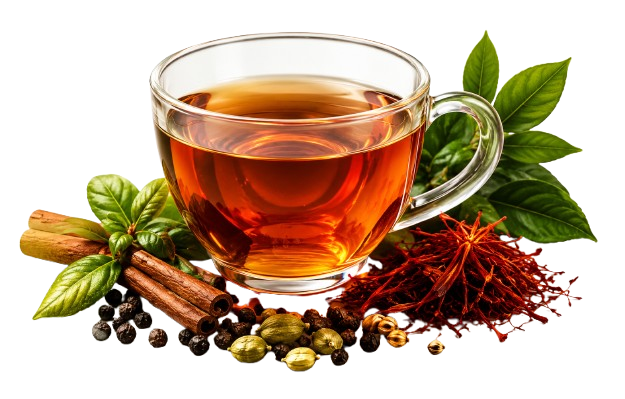
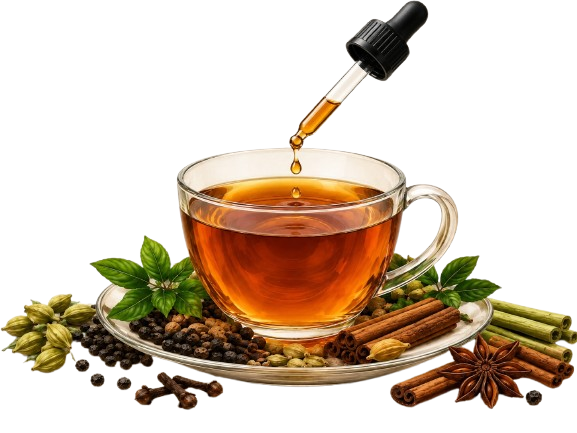
final changes02

diff --git a/components/home/HomeHero.tsx b/components/home/HomeHero.tsx
@@ -1,70 +1,92 @@
-import Link from 'next/link'
-import { Leaf, MessageCircle } from 'lucide-react'
-import Image from 'next/image'
+"use client";
+
+import Link from "next/link";
+import { Leaf } from "lucide-react";
+import Image from "next/image";
+import { useState, useEffect } from "react";
+
+const images = [
+  "/images/contact.jpeg",
+  "/images/contact2.jpeg",
+];
 
 export default function HomeHero() {
+  const [currentImage, setCurrentImage] = useState(0);
+
+  useEffect(() => {
+    const interval = setInterval(() => {
+      setCurrentImage((prev) => (prev + 1) % images.length);
+    }, 4000);
+
+    return () => clearInterval(interval);
+  }, []);
+
   return (
-   <section className="relative min-h-[600px] md:min-h-[700px] lg:min-h-[800px] overflow-hidden">
-  {/* Background Image */}
-  <Image
-    src="/images/contact.png"
-    alt="Wellness Extracts"
-    fill
-    priority
-    className="object-cover opacity-75"
-  />
+    <section className="relative min-h-[600px] md:min-h-[700px] lg:min-h-[800px] overflow-hidden">
 
-  {/* Overlay */}
-  <div className="absolute inset-0" />
+      {/* Background Images */}
+      {images.map((img, index) => (
+        <Image
+          key={index}
+          src={img}
+          alt={`Background ${index + 1}`}
+          fill
+          priority={index === 0}
+          className={`absolute inset-0 object-cover transition-opacity duration-1000 ${
+            currentImage === index ? "opacity-75" : "opacity-0"
+          }`}
+        />
+      ))}
 
-  {/* Content */}
-  <div className="absolute inset-0 flex items-center">
-    <div className="max-w-7xl mx-auto w-full px-4 sm:px-6 lg:px-8">
-      <div className="max-w-xl lg:max-w-2xl space-y-4 sm:space-y-6">
+      {/* Overlay */}
+<div className="absolute inset-0 bg-black/20" />
 
-        {/* Badge */}
-        <div className="inline-flex items-center gap-2 text-black bg-black/20 backdrop-blur-sm px-3 py-2 rounded-full text-[10px] sm:text-xs font-bold tracking-widest uppercase">
-          <Leaf size={11} />
-          100% Natural Wellness Extracts
-        </div>
+{/* Content */}
+<div className="absolute inset-0 flex items-center">
+  <div className="max-w-7xl mx-auto w-full px-4 sm:px-6 lg:px-8">
+    <div className="max-w-xl lg:max-w-2xl space-y-4 sm:space-y-6">
 
-        {/* Heading */}
-        <h1
-          className="font-bold leading-tight"
-          style={{ fontFamily: "var(--font-playfair)" }}
-        >
-          <span className="block text-orange-600 text-4xl sm:text-5xl lg:text-7xl">
-            Nature's
-          </span>
-
-          <span className="block text-primary text-4xl sm:text-5xl lg:text-7xl">
-            Goodness
-          </span>
-
-          <span className="block italic text-primary text-3xl sm:text-4xl lg:text-6xl mt-2">
-            in Every Drop.
-          </span>
-        </h1>
-
-        {/* Description */}
-        <p className="text-sm sm:text-base lg:text-xl text-yellow-300 max-w-md lg:max-w-lg leading-relaxed">
-          Premium wellness extracts made from India's finest spices,
-          herbs and botanicals.
-        </p>
-
-        {/* Button */}
-        <div className="flex flex-wrap gap-3">
-          <Link
-            href="/products"
-            className="bg-primary text-white px-5 py-3 sm:px-6 sm:py-3 rounded font-semibold text-sm sm:text-base"
-          >
-            Explore Products
-          </Link>
-        </div>
-
+      {/* Badge */}
+      <div className="inline-flex items-center gap-2 text-black bg-black/20 backdrop-blur-sm px-3 py-2 rounded-full text-[10px] sm:text-xs font-bold tracking-widest uppercase">
+        <Leaf size={11} />
+        100% Natural Wellness Extracts
       </div>
+
+      {/* Heading */}
+      <h1
+        className="font-bold leading-tight"
+        style={{ fontFamily: "var(--font-playfair)" }}
+      >
+        <span className="block text-orange-600 text-4xl sm:text-5xl lg:text-7xl">
+          Nature's
+        </span>
+
+        <span className="block text-orange-600 text-4xl sm:text-5xl lg:text-7xl">
+          Goodness
+        </span>
+
+        <span className="block italic text-orange-600 text-3xl sm:text-4xl lg:text-6xl mt-2">
+          in Every Drop.
+        </span>
+      </h1>
+
+      {/* Description */}
+      <p className="text-sm sm:text-base lg:text-xl text-yellow-300 max-w-md lg:max-w-lg leading-relaxed">
+        Premium wellness extracts made from India's finest spices,
+        herbs and botanicals.
+      </p>
+
+      {/* Button */}
+      <Link
+        href="/products"
+        className="inline-block bg-primary text-white px-5 py-3 sm:px-6 sm:py-3 rounded font-semibold text-sm sm:text-base"
+      >
+        Explore Products
+      </Link>
+
     </div>
   </div>
-</section>
-  )
+</div>
+    </section>
+  );
 }

diff --git a/app/products/lemontea/page.tsx b/app/products/lemontea/page.tsx
@@ -10,6 +10,7 @@ export default function ProductDetails() {
   const productImages = [
   "/images/product-black-lemon.png",
   "/images/blacklemon.png",
+  "/images/cup.jpeg",
 ];
   const reviewsRef = useRef<HTMLDivElement>(null);
 

diff --git a/app/products/iranichai/page.tsx b/app/products/iranichai/page.tsx
@@ -10,6 +10,7 @@ export default function ProductDetails() {
   const productImages = [
   "/images/product-irani-chai.png",
   "/images/iranichai.png",
+  "/images/cup.jpeg",
 ];
   const reviewsRef = useRef<HTMLDivElement>(null);
 

diff --git a/app/products/kashmirkahwa/page.tsx b/app/products/kashmirkahwa/page.tsx
@@ -10,6 +10,7 @@ export default function ProductDetails() {
   const productImages = [
   "/images/product-kashmir-kahwa.png",
   "/images/kahwa.png",
+  "/images/cup.jpeg",
 ];
   const reviewsRef = useRef<HTMLDivElement>(null);
 

diff --git a/app/products/masalachai/page.tsx b/app/products/masalachai/page.tsx
@@ -10,6 +10,7 @@ export default function ProductDetails() {
   const productImages = [
   "/images/product-masala-chai.png",
   "/images/masala.png",
+  "/images/cup.jpeg",
 ];
   const reviewsRef = useRef<HTMLDivElement>(null);
 

diff --git a/app/products/ginger/page.tsx b/app/products/ginger/page.tsx
@@ -10,6 +10,7 @@ export default function ProductDetails() {
   const productImages = [
   "/images/product-ginger.png",
   "/images/gingerchai.png",
+  "/images/cup.jpeg",
 ];
   const reviewsRef = useRef<HTMLDivElement>(null);
 

diff --git a/app/products/detox/page.tsx b/app/products/detox/page.tsx
@@ -10,6 +10,7 @@ export default function ProductDetails() {
   const productImages = [
   "/images/product-detox.png",
   "/images/detoxchai.png",
+  "/images/cup.jpeg",
 ];
   const reviewsRef = useRef<HTMLDivElement>(null);
 

diff --git a/app/products/cardamom/page.tsx b/app/products/cardamom/page.tsx
@@ -10,6 +10,7 @@ export default function ProductDetails() {
   const productImages = [
   "/images/product-cardamom.png",
   "/images/card.png",
+  "/images/cup.jpeg",
 ];
   const reviewsRef = useRef<HTMLDivElement>(null);
 
